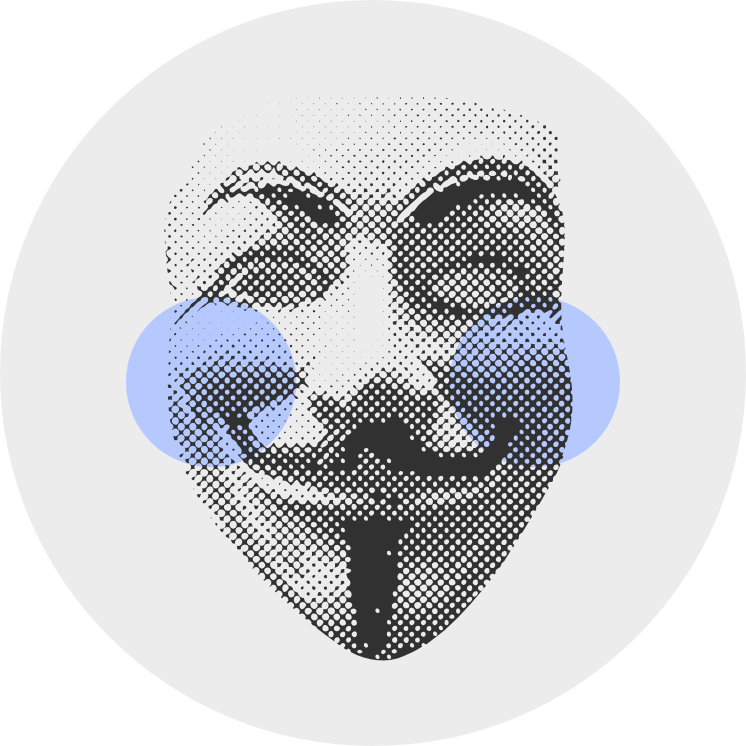
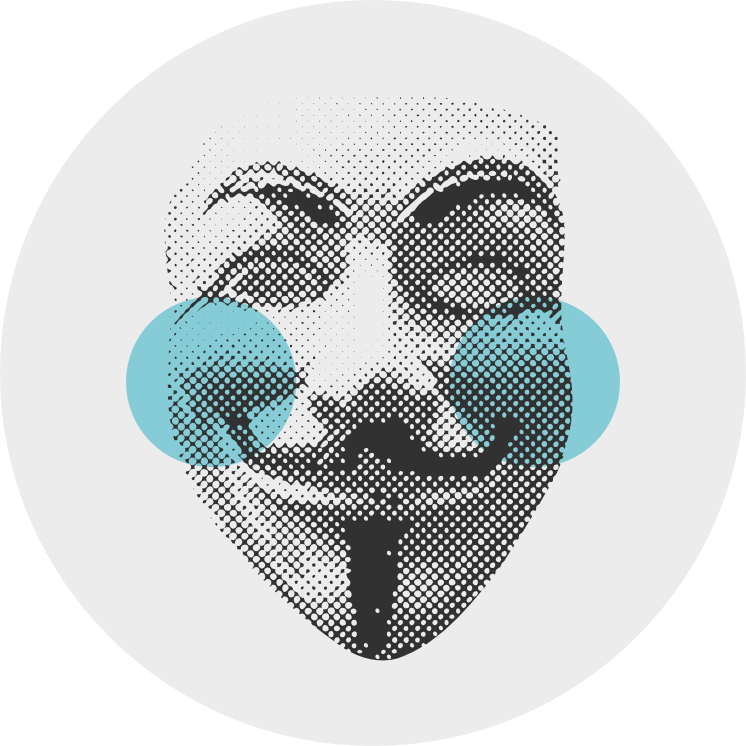
graphics update

Changed region(s): [[0.1542, 0.4008, 0.4008, 0.6475], [0.5858, 0.4008, 0.8324, 0.6475]]

diff --git a/style.min.css b/style.min.css
@@ -11,5 +11,5 @@ Pure v1.0.1
 Copyright 2013 Yahoo!
 Licensed under the BSD License.
 https://github.com/pure-css/pure/blob/master/LICENSE.md
-*/@media screen and (min-width: 35.5em){.pure-u-sm-1,.pure-u-sm-1-1,.pure-u-sm-1-2,.pure-u-sm-1-3,.pure-u-sm-2-3,.pure-u-sm-1-4,.pure-u-sm-3-4,.pure-u-sm-1-5,.pure-u-sm-2-5,.pure-u-sm-3-5,.pure-u-sm-4-5,.pure-u-sm-5-5,.pure-u-sm-1-6,.pure-u-sm-5-6,.pure-u-sm-1-8,.pure-u-sm-3-8,.pure-u-sm-5-8,.pure-u-sm-7-8,.pure-u-sm-1-12,.pure-u-sm-5-12,.pure-u-sm-7-12,.pure-u-sm-11-12,.pure-u-sm-1-24,.pure-u-sm-2-24,.pure-u-sm-3-24,.pure-u-sm-4-24,.pure-u-sm-5-24,.pure-u-sm-6-24,.pure-u-sm-7-24,.pure-u-sm-8-24,.pure-u-sm-9-24,.pure-u-sm-10-24,.pure-u-sm-11-24,.pure-u-sm-12-24,.pure-u-sm-13-24,.pure-u-sm-14-24,.pure-u-sm-15-24,.pure-u-sm-16-24,.pure-u-sm-17-24,.pure-u-sm-18-24,.pure-u-sm-19-24,.pure-u-sm-20-24,.pure-u-sm-21-24,.pure-u-sm-22-24,.pure-u-sm-23-24,.pure-u-sm-24-24{display:inline-block;*display:inline;zoom:1;letter-spacing:normal;word-spacing:normal;vertical-align:top;text-rendering:auto}.pure-u-sm-1-24{width:4.1667%;*width:4.1357%}.pure-u-sm-1-12,.pure-u-sm-2-24{width:8.3333%;*width:8.3023%}.pure-u-sm-1-8,.pure-u-sm-3-24{width:12.5000%;*width:12.4690%}.pure-u-sm-1-6,.pure-u-sm-4-24{width:16.6667%;*width:16.6357%}.pure-u-sm-1-5{width:20%;*width:19.9690%}.pure-u-sm-5-24{width:20.8333%;*width:20.8023%}.pure-u-sm-1-4,.pure-u-sm-6-24{width:25%;*width:24.9690%}.pure-u-sm-7-24{width:29.1667%;*width:29.1357%}.pure-u-sm-1-3,.pure-u-sm-8-24{width:33.3333%;*width:33.3023%}.pure-u-sm-3-8,.pure-u-sm-9-24{width:37.5000%;*width:37.4690%}.pure-u-sm-2-5{width:40%;*width:39.9690%}.pure-u-sm-5-12,.pure-u-sm-10-24{width:41.6667%;*width:41.6357%}.pure-u-sm-11-24{width:45.8333%;*width:45.8023%}.pure-u-sm-1-2,.pure-u-sm-12-24{width:50%;*width:49.9690%}.pure-u-sm-13-24{width:54.1667%;*width:54.1357%}.pure-u-sm-7-12,.pure-u-sm-14-24{width:58.3333%;*width:58.3023%}.pure-u-sm-3-5{width:60%;*width:59.9690%}.pure-u-sm-5-8,.pure-u-sm-15-24{width:62.5000%;*width:62.4690%}.pure-u-sm-2-3,.pure-u-sm-16-24{width:66.6667%;*width:66.6357%}.pure-u-sm-17-24{width:70.8333%;*width:70.8023%}.pure-u-sm-3-4,.pure-u-sm-18-24{width:75%;*width:74.9690%}.pure-u-sm-19-24{width:79.1667%;*width:79.1357%}.pure-u-sm-4-5{width:80%;*width:79.9690%}.pure-u-sm-5-6,.pure-u-sm-20-24{width:83.3333%;*width:83.3023%}.pure-u-sm-7-8,.pure-u-sm-21-24{width:87.5000%;*width:87.4690%}.pure-u-sm-11-12,.pure-u-sm-22-24{width:91.6667%;*width:91.6357%}.pure-u-sm-23-24{width:95.8333%;*width:95.8023%}.pure-u-sm-1,.pure-u-sm-1-1,.pure-u-sm-5-5,.pure-u-sm-24-24{width:100%}}@media screen and (min-width: 48em){.pure-u-md-1,.pure-u-md-1-1,.pure-u-md-1-2,.pure-u-md-1-3,.pure-u-md-2-3,.pure-u-md-1-4,.pure-u-md-3-4,.pure-u-md-1-5,.pure-u-md-2-5,.pure-u-md-3-5,.pure-u-md-4-5,.pure-u-md-5-5,.pure-u-md-1-6,.pure-u-md-5-6,.pure-u-md-1-8,.pure-u-md-3-8,.pure-u-md-5-8,.pure-u-md-7-8,.pure-u-md-1-12,.pure-u-md-5-12,.pure-u-md-7-12,.pure-u-md-11-12,.pure-u-md-1-24,.pure-u-md-2-24,.pure-u-md-3-24,.pure-u-md-4-24,.pure-u-md-5-24,.pure-u-md-6-24,.pure-u-md-7-24,.pure-u-md-8-24,.pure-u-md-9-24,.pure-u-md-10-24,.pure-u-md-11-24,.pure-u-md-12-24,.pure-u-md-13-24,.pure-u-md-14-24,.pure-u-md-15-24,.pure-u-md-16-24,.pure-u-md-17-24,.pure-u-md-18-24,.pure-u-md-19-24,.pure-u-md-20-24,.pure-u-md-21-24,.pure-u-md-22-24,.pure-u-md-23-24,.pure-u-md-24-24{display:inline-block;*display:inline;zoom:1;letter-spacing:normal;word-spacing:normal;vertical-align:top;text-rendering:auto}.pure-u-md-1-24{width:4.1667%;*width:4.1357%}.pure-u-md-1-12,.pure-u-md-2-24{width:8.3333%;*width:8.3023%}.pure-u-md-1-8,.pure-u-md-3-24{width:12.5000%;*width:12.4690%}.pure-u-md-1-6,.pure-u-md-4-24{width:16.6667%;*width:16.6357%}.pure-u-md-1-5{width:20%;*width:19.9690%}.pure-u-md-5-24{width:20.8333%;*width:20.8023%}.pure-u-md-1-4,.pure-u-md-6-24{width:25%;*width:24.9690%}.pure-u-md-7-24{width:29.1667%;*width:29.1357%}.pure-u-md-1-3,.pure-u-md-8-24{width:33.3333%;*width:33.3023%}.pure-u-md-3-8,.pure-u-md-9-24{width:37.5000%;*width:37.4690%}.pure-u-md-2-5{width:40%;*width:39.9690%}.pure-u-md-5-12,.pure-u-md-10-24{width:41.6667%;*width:41.6357%}.pure-u-md-11-24{width:45.8333%;*width:45.8023%}.pure-u-md-1-2,.pure-u-md-12-24{width:50%;*width:49.9690%}.pure-u-md-13-24{width:54.1667%;*width:54.1357%}.pure-u-md-7-12,.pure-u-md-14-24{width:58.3333%;*width:58.3023%}.pure-u-md-3-5{width:60%;*width:59.9690%}.pure-u-md-5-8,.pure-u-md-15-24{width:62.5000%;*width:62.4690%}.pure-u-md-2-3,.pure-u-md-16-24{width:66.6667%;*width:66.6357%}.pure-u-md-17-24{width:70.8333%;*width:70.8023%}.pure-u-md-3-4,.pure-u-md-18-24{width:75%;*width:74.9690%}.pure-u-md-19-24{width:79.1667%;*width:79.1357%}.pure-u-md-4-5{width:80%;*width:79.9690%}.pure-u-md-5-6,.pure-u-md-20-24{width:83.3333%;*width:83.3023%}.pure-u-md-7-8,.pure-u-md-21-24{width:87.5000%;*width:87.4690%}.pure-u-md-11-12,.pure-u-md-22-24{width:91.6667%;*width:91.6357%}.pure-u-md-23-24{width:95.8333%;*width:95.8023%}.pure-u-md-1,.pure-u-md-1-1,.pure-u-md-5-5,.pure-u-md-24-24{width:100%}}@media screen and (min-width: 64em){.pure-u-lg-1,.pure-u-lg-1-1,.pure-u-lg-1-2,.pure-u-lg-1-3,.pure-u-lg-2-3,.pure-u-lg-1-4,.pure-u-lg-3-4,.pure-u-lg-1-5,.pure-u-lg-2-5,.pure-u-lg-3-5,.pure-u-lg-4-5,.pure-u-lg-5-5,.pure-u-lg-1-6,.pure-u-lg-5-6,.pure-u-lg-1-8,.pure-u-lg-3-8,.pure-u-lg-5-8,.pure-u-lg-7-8,.pure-u-lg-1-12,.pure-u-lg-5-12,.pure-u-lg-7-12,.pure-u-lg-11-12,.pure-u-lg-1-24,.pure-u-lg-2-24,.pure-u-lg-3-24,.pure-u-lg-4-24,.pure-u-lg-5-24,.pure-u-lg-6-24,.pure-u-lg-7-24,.pure-u-lg-8-24,.pure-u-lg-9-24,.pure-u-lg-10-24,.pure-u-lg-11-24,.pure-u-lg-12-24,.pure-u-lg-13-24,.pure-u-lg-14-24,.pure-u-lg-15-24,.pure-u-lg-16-24,.pure-u-lg-17-24,.pure-u-lg-18-24,.pure-u-lg-19-24,.pure-u-lg-20-24,.pure-u-lg-21-24,.pure-u-lg-22-24,.pure-u-lg-23-24,.pure-u-lg-24-24{display:inline-block;*display:inline;zoom:1;letter-spacing:normal;word-spacing:normal;vertical-align:top;text-rendering:auto}.pure-u-lg-1-24{width:4.1667%;*width:4.1357%}.pure-u-lg-1-12,.pure-u-lg-2-24{width:8.3333%;*width:8.3023%}.pure-u-lg-1-8,.pure-u-lg-3-24{width:12.5000%;*width:12.4690%}.pure-u-lg-1-6,.pure-u-lg-4-24{width:16.6667%;*width:16.6357%}.pure-u-lg-1-5{width:20%;*width:19.9690%}.pure-u-lg-5-24{width:20.8333%;*width:20.8023%}.pure-u-lg-1-4,.pure-u-lg-6-24{width:25%;*width:24.9690%}.pure-u-lg-7-24{width:29.1667%;*width:29.1357%}.pure-u-lg-1-3,.pure-u-lg-8-24{width:33.3333%;*width:33.3023%}.pure-u-lg-3-8,.pure-u-lg-9-24{width:37.5000%;*width:37.4690%}.pure-u-lg-2-5{width:40%;*width:39.9690%}.pure-u-lg-5-12,.pure-u-lg-10-24{width:41.6667%;*width:41.6357%}.pure-u-lg-11-24{width:45.8333%;*width:45.8023%}.pure-u-lg-1-2,.pure-u-lg-12-24{width:50%;*width:49.9690%}.pure-u-lg-13-24{width:54.1667%;*width:54.1357%}.pure-u-lg-7-12,.pure-u-lg-14-24{width:58.3333%;*width:58.3023%}.pure-u-lg-3-5{width:60%;*width:59.9690%}.pure-u-lg-5-8,.pure-u-lg-15-24{width:62.5000%;*width:62.4690%}.pure-u-lg-2-3,.pure-u-lg-16-24{width:66.6667%;*width:66.6357%}.pure-u-lg-17-24{width:70.8333%;*width:70.8023%}.pure-u-lg-3-4,.pure-u-lg-18-24{width:75%;*width:74.9690%}.pure-u-lg-19-24{width:79.1667%;*width:79.1357%}.pure-u-lg-4-5{width:80%;*width:79.9690%}.pure-u-lg-5-6,.pure-u-lg-20-24{width:83.3333%;*width:83.3023%}.pure-u-lg-7-8,.pure-u-lg-21-24{width:87.5000%;*width:87.4690%}.pure-u-lg-11-12,.pure-u-lg-22-24{width:91.6667%;*width:91.6357%}.pure-u-lg-23-24{width:95.8333%;*width:95.8023%}.pure-u-lg-1,.pure-u-lg-1-1,.pure-u-lg-5-5,.pure-u-lg-24-24{width:100%}}@media screen and (min-width: 80em){.pure-u-xl-1,.pure-u-xl-1-1,.pure-u-xl-1-2,.pure-u-xl-1-3,.pure-u-xl-2-3,.pure-u-xl-1-4,.pure-u-xl-3-4,.pure-u-xl-1-5,.pure-u-xl-2-5,.pure-u-xl-3-5,.pure-u-xl-4-5,.pure-u-xl-5-5,.pure-u-xl-1-6,.pure-u-xl-5-6,.pure-u-xl-1-8,.pure-u-xl-3-8,.pure-u-xl-5-8,.pure-u-xl-7-8,.pure-u-xl-1-12,.pure-u-xl-5-12,.pure-u-xl-7-12,.pure-u-xl-11-12,.pure-u-xl-1-24,.pure-u-xl-2-24,.pure-u-xl-3-24,.pure-u-xl-4-24,.pure-u-xl-5-24,.pure-u-xl-6-24,.pure-u-xl-7-24,.pure-u-xl-8-24,.pure-u-xl-9-24,.pure-u-xl-10-24,.pure-u-xl-11-24,.pure-u-xl-12-24,.pure-u-xl-13-24,.pure-u-xl-14-24,.pure-u-xl-15-24,.pure-u-xl-16-24,.pure-u-xl-17-24,.pure-u-xl-18-24,.pure-u-xl-19-24,.pure-u-xl-20-24,.pure-u-xl-21-24,.pure-u-xl-22-24,.pure-u-xl-23-24,.pure-u-xl-24-24{display:inline-block;*display:inline;zoom:1;letter-spacing:normal;word-spacing:normal;vertical-align:top;text-rendering:auto}.pure-u-xl-1-24{width:4.1667%;*width:4.1357%}.pure-u-xl-1-12,.pure-u-xl-2-24{width:8.3333%;*width:8.3023%}.pure-u-xl-1-8,.pure-u-xl-3-24{width:12.5000%;*width:12.4690%}.pure-u-xl-1-6,.pure-u-xl-4-24{width:16.6667%;*width:16.6357%}.pure-u-xl-1-5{width:20%;*width:19.9690%}.pure-u-xl-5-24{width:20.8333%;*width:20.8023%}.pure-u-xl-1-4,.pure-u-xl-6-24{width:25%;*width:24.9690%}.pure-u-xl-7-24{width:29.1667%;*width:29.1357%}.pure-u-xl-1-3,.pure-u-xl-8-24{width:33.3333%;*width:33.3023%}.pure-u-xl-3-8,.pure-u-xl-9-24{width:37.5000%;*width:37.4690%}.pure-u-xl-2-5{width:40%;*width:39.9690%}.pure-u-xl-5-12,.pure-u-xl-10-24{width:41.6667%;*width:41.6357%}.pure-u-xl-11-24{width:45.8333%;*width:45.8023%}.pure-u-xl-1-2,.pure-u-xl-12-24{width:50%;*width:49.9690%}.pure-u-xl-13-24{width:54.1667%;*width:54.1357%}.pure-u-xl-7-12,.pure-u-xl-14-24{width:58.3333%;*width:58.3023%}.pure-u-xl-3-5{width:60%;*width:59.9690%}.pure-u-xl-5-8,.pure-u-xl-15-24{width:62.5000%;*width:62.4690%}.pure-u-xl-2-3,.pure-u-xl-16-24{width:66.6667%;*width:66.6357%}.pure-u-xl-17-24{width:70.8333%;*width:70.8023%}.pure-u-xl-3-4,.pure-u-xl-18-24{width:75%;*width:74.9690%}.pure-u-xl-19-24{width:79.1667%;*width:79.1357%}.pure-u-xl-4-5{width:80%;*width:79.9690%}.pure-u-xl-5-6,.pure-u-xl-20-24{width:83.3333%;*width:83.3023%}.pure-u-xl-7-8,.pure-u-xl-21-24{width:87.5000%;*width:87.4690%}.pure-u-xl-11-12,.pure-u-xl-22-24{width:91.6667%;*width:91.6357%}.pure-u-xl-23-24{width:95.8333%;*width:95.8023%}.pure-u-xl-1,.pure-u-xl-1-1,.pure-u-xl-5-5,.pure-u-xl-24-24{width:100%}}html,pure-g,.pure-g [class*="pure-u"]{font-family:'Sen', sans-serif}h1{font-size:2em;margin:0.3em 0}h2{font-size:36px;font-weight:800;margin:0 0 0.2em 0;letter-spacing:-1px;text-transform:capitalize;line-height:1.3}h3{font-size:24px;font-weight:800;margin:0.5em 0 0.2em 0;letter-spacing:-1px;text-transform:capitalize;line-height:1.3}.user-data-table p{font-size:24px;color:#828282}.banner p{line-height:1.3}p{line-height:1.6}b{font-weight:800}.right{text-align:right}.center{text-align:center}table{border-collapse:collapse;width:100%;margin:2em 0;border-bottom:#d0d0d0 1px solid;background:#fff}td,th{border-top:1px solid #d0d0d0;text-align:left;padding:8px;font-size:18px}.shine-me{-webkit-animation-name:ShineAnimation;-webkit-animation-duration:5s;-webkit-animation-iteration-count:infinite;-webkit-animation-timing-function:cubic-bezier(0.12, 0.89, 0.98, 0.47);transition:transform .1s}.shine-me:hover{transform:scale(1.05)}@-webkit-keyframes ShineAnimation{from{background-repeat:no-repeat;background-image:-webkit-linear-gradient(top left, rgba(255,255,255,0) 0%, rgba(255,255,255,0) 45%, rgba(255,255,255,0.5) 48%, rgba(255,255,255,0.8) 50%, rgba(255,255,255,0.5) 52%, rgba(255,255,255,0) 57%, rgba(255,255,255,0) 100%);background-position:-250px -250px;background-size:600px 600px}to{background-repeat:no-repeat;background-position:250px 250px}}@-webkit-keyframes ShineAnimation2{from{background-repeat:no-repeat;background-image:-webkit-linear-gradient(top left, #fff 0%, #fff 100%)}to{background-repeat:no-repeat;background-position:0px 98px}}body{margin-top:72px;background:#ffffff;background-image:url("img/pattern.png")}.container{max-width:1104px;margin:0 auto;padding:0 48px}.section{padding:7% 0;border-bottom:#ccc 1px solid;background:#fff}.img-left,.img-right,.img-right-table{max-width:90%;height:auto;display:block}.logo{width:320px}.img-left{padding:0 10% 0 0}.img-right{padding:0 0 0 10%}.banner{min-height:420px;text-align:center;text-shadow:0 1px 1px #000;background:url("img/hero.jpg");background-size:cover;background-position:center center;padding:4% 0;color:#fff;font-size:20px}.banner-highlight{color:#fffc36;font-size:32px;margin:0.5em 0 0.2em 0}.logo-strip{margin:12px 0;max-height:80px;color:#fff}.logo-strip img{max-height:80px;margin:0 auto}.top-bar{top:0;height:40px;background:#1d1d1d;padding:16px 0;border-bottom:1px solid #2f2f2f;position:fixed;width:100%;z-index:100}.top-bar img{width:164px;margin-top:-2px}.user-data-table{border-bottom:1px solid #ccc;padding:7% 0}.user-data-table ul li{line-height:1.3;font-size:18px;text-align:right}.benefits-container{max-width:1200px;margin:0 auto}.benefits p,.benefits h3{padding:0 48px}.benefits img{margin:5em 48px 0.5em}.offer{font-size:24px;max-width:800px;margin:0 auto}.offer p{line-height:1.2}.offer span{font-size:18px}.offer-box-header{margin-top:64px;background:#f0f0f0;font-size:36px;border:#ccc 1px solid;padding:18px;border-radius:8px 8px 0 0}ul.offer-box{border-left:#ccc 1px solid;border-right:#ccc 1px solid;border-bottom:#ccc 1px solid;border-radius:0 0 8px 8px;background:#fff}ul.offer-box li{padding:16px 0;border-top:#ccc 1px solid;font-size:20px}ul.offer-box li.leading{font-size:28px;padding:24px 16px;border:none;line-height:1.3}.pure-button{transition:all .1s}.section .pure-button,.user-data-table .pure-button{border-radius:53px;background:#fbbc05;font-size:20px;color:#000;font-weight:800;box-shadow:0 3px 1px #bd8e06}.pure-button:hover,.banner .pure-button:hover{background:#fbf705}.banner .pure-button,.button-xlarge{border-radius:53px;background:#fbbc05;font-size:22px;text-shadow:none;box-shadow:0 4px 4px #000}.button-xlarge{margin:16px 0}.top-bar .pure-button{border-radius:34px;background:none;border:2px solid #fffc36}.top-bar .pure-button:hover{border:2px solid #fbf705;background:#fbf705;color:#000}.top-bar a.pure-button{color:#fffc36;font-weight:800}.offer .button-xlarge{font-size:24px;box-shadow:0 3px 0 #bd8e06}.banner a.pure-button,.button-xlarge{color:#000;font-weight:800}footer{margin-top:64px;background:#2d2d2d;background:-webkit-linear-gradient(bottom, #2d2d2d 0%, #1d1d1d 100%);background:-o-linear-gradient(bottom, #2d2d2d 0%, #1d1d1d 100%);background:linear-gradient(to top, #2d2d2d 0%, #1d1d1d 100%);height:40px;padding:16px 0;text-align:center;color:#fff}footer .logo{margin-top:6px;width:200px}.hide-xl{display:none}.hide-sm{display:inline}@media screen and (max-width: 60em){.banner{height:100%;padding:36px 0;font-size:18px}}@media screen and (max-width: 35.5em){.logo{width:256px}.hide-xl{display:inline}.hide-sm{display:none}.top-bar img{width:72px;margin-top:2px}.container{padding:0 24px}.banner .pure-button,.button-xlarge{font-size:16px}.benefits img{margin:48px 0 0 24px}.benefits p,.benefits h3{padding:0 24px}.img-left,.img-right,.img-right-table{max-width:100%;padding:36px 0 0 0}h2{margin:0.5em 0 0.2em 0}}
+*/@media screen and (min-width: 35.5em){.pure-u-sm-1,.pure-u-sm-1-1,.pure-u-sm-1-2,.pure-u-sm-1-3,.pure-u-sm-2-3,.pure-u-sm-1-4,.pure-u-sm-3-4,.pure-u-sm-1-5,.pure-u-sm-2-5,.pure-u-sm-3-5,.pure-u-sm-4-5,.pure-u-sm-5-5,.pure-u-sm-1-6,.pure-u-sm-5-6,.pure-u-sm-1-8,.pure-u-sm-3-8,.pure-u-sm-5-8,.pure-u-sm-7-8,.pure-u-sm-1-12,.pure-u-sm-5-12,.pure-u-sm-7-12,.pure-u-sm-11-12,.pure-u-sm-1-24,.pure-u-sm-2-24,.pure-u-sm-3-24,.pure-u-sm-4-24,.pure-u-sm-5-24,.pure-u-sm-6-24,.pure-u-sm-7-24,.pure-u-sm-8-24,.pure-u-sm-9-24,.pure-u-sm-10-24,.pure-u-sm-11-24,.pure-u-sm-12-24,.pure-u-sm-13-24,.pure-u-sm-14-24,.pure-u-sm-15-24,.pure-u-sm-16-24,.pure-u-sm-17-24,.pure-u-sm-18-24,.pure-u-sm-19-24,.pure-u-sm-20-24,.pure-u-sm-21-24,.pure-u-sm-22-24,.pure-u-sm-23-24,.pure-u-sm-24-24{display:inline-block;*display:inline;zoom:1;letter-spacing:normal;word-spacing:normal;vertical-align:top;text-rendering:auto}.pure-u-sm-1-24{width:4.1667%;*width:4.1357%}.pure-u-sm-1-12,.pure-u-sm-2-24{width:8.3333%;*width:8.3023%}.pure-u-sm-1-8,.pure-u-sm-3-24{width:12.5000%;*width:12.4690%}.pure-u-sm-1-6,.pure-u-sm-4-24{width:16.6667%;*width:16.6357%}.pure-u-sm-1-5{width:20%;*width:19.9690%}.pure-u-sm-5-24{width:20.8333%;*width:20.8023%}.pure-u-sm-1-4,.pure-u-sm-6-24{width:25%;*width:24.9690%}.pure-u-sm-7-24{width:29.1667%;*width:29.1357%}.pure-u-sm-1-3,.pure-u-sm-8-24{width:33.3333%;*width:33.3023%}.pure-u-sm-3-8,.pure-u-sm-9-24{width:37.5000%;*width:37.4690%}.pure-u-sm-2-5{width:40%;*width:39.9690%}.pure-u-sm-5-12,.pure-u-sm-10-24{width:41.6667%;*width:41.6357%}.pure-u-sm-11-24{width:45.8333%;*width:45.8023%}.pure-u-sm-1-2,.pure-u-sm-12-24{width:50%;*width:49.9690%}.pure-u-sm-13-24{width:54.1667%;*width:54.1357%}.pure-u-sm-7-12,.pure-u-sm-14-24{width:58.3333%;*width:58.3023%}.pure-u-sm-3-5{width:60%;*width:59.9690%}.pure-u-sm-5-8,.pure-u-sm-15-24{width:62.5000%;*width:62.4690%}.pure-u-sm-2-3,.pure-u-sm-16-24{width:66.6667%;*width:66.6357%}.pure-u-sm-17-24{width:70.8333%;*width:70.8023%}.pure-u-sm-3-4,.pure-u-sm-18-24{width:75%;*width:74.9690%}.pure-u-sm-19-24{width:79.1667%;*width:79.1357%}.pure-u-sm-4-5{width:80%;*width:79.9690%}.pure-u-sm-5-6,.pure-u-sm-20-24{width:83.3333%;*width:83.3023%}.pure-u-sm-7-8,.pure-u-sm-21-24{width:87.5000%;*width:87.4690%}.pure-u-sm-11-12,.pure-u-sm-22-24{width:91.6667%;*width:91.6357%}.pure-u-sm-23-24{width:95.8333%;*width:95.8023%}.pure-u-sm-1,.pure-u-sm-1-1,.pure-u-sm-5-5,.pure-u-sm-24-24{width:100%}}@media screen and (min-width: 48em){.pure-u-md-1,.pure-u-md-1-1,.pure-u-md-1-2,.pure-u-md-1-3,.pure-u-md-2-3,.pure-u-md-1-4,.pure-u-md-3-4,.pure-u-md-1-5,.pure-u-md-2-5,.pure-u-md-3-5,.pure-u-md-4-5,.pure-u-md-5-5,.pure-u-md-1-6,.pure-u-md-5-6,.pure-u-md-1-8,.pure-u-md-3-8,.pure-u-md-5-8,.pure-u-md-7-8,.pure-u-md-1-12,.pure-u-md-5-12,.pure-u-md-7-12,.pure-u-md-11-12,.pure-u-md-1-24,.pure-u-md-2-24,.pure-u-md-3-24,.pure-u-md-4-24,.pure-u-md-5-24,.pure-u-md-6-24,.pure-u-md-7-24,.pure-u-md-8-24,.pure-u-md-9-24,.pure-u-md-10-24,.pure-u-md-11-24,.pure-u-md-12-24,.pure-u-md-13-24,.pure-u-md-14-24,.pure-u-md-15-24,.pure-u-md-16-24,.pure-u-md-17-24,.pure-u-md-18-24,.pure-u-md-19-24,.pure-u-md-20-24,.pure-u-md-21-24,.pure-u-md-22-24,.pure-u-md-23-24,.pure-u-md-24-24{display:inline-block;*display:inline;zoom:1;letter-spacing:normal;word-spacing:normal;vertical-align:top;text-rendering:auto}.pure-u-md-1-24{width:4.1667%;*width:4.1357%}.pure-u-md-1-12,.pure-u-md-2-24{width:8.3333%;*width:8.3023%}.pure-u-md-1-8,.pure-u-md-3-24{width:12.5000%;*width:12.4690%}.pure-u-md-1-6,.pure-u-md-4-24{width:16.6667%;*width:16.6357%}.pure-u-md-1-5{width:20%;*width:19.9690%}.pure-u-md-5-24{width:20.8333%;*width:20.8023%}.pure-u-md-1-4,.pure-u-md-6-24{width:25%;*width:24.9690%}.pure-u-md-7-24{width:29.1667%;*width:29.1357%}.pure-u-md-1-3,.pure-u-md-8-24{width:33.3333%;*width:33.3023%}.pure-u-md-3-8,.pure-u-md-9-24{width:37.5000%;*width:37.4690%}.pure-u-md-2-5{width:40%;*width:39.9690%}.pure-u-md-5-12,.pure-u-md-10-24{width:41.6667%;*width:41.6357%}.pure-u-md-11-24{width:45.8333%;*width:45.8023%}.pure-u-md-1-2,.pure-u-md-12-24{width:50%;*width:49.9690%}.pure-u-md-13-24{width:54.1667%;*width:54.1357%}.pure-u-md-7-12,.pure-u-md-14-24{width:58.3333%;*width:58.3023%}.pure-u-md-3-5{width:60%;*width:59.9690%}.pure-u-md-5-8,.pure-u-md-15-24{width:62.5000%;*width:62.4690%}.pure-u-md-2-3,.pure-u-md-16-24{width:66.6667%;*width:66.6357%}.pure-u-md-17-24{width:70.8333%;*width:70.8023%}.pure-u-md-3-4,.pure-u-md-18-24{width:75%;*width:74.9690%}.pure-u-md-19-24{width:79.1667%;*width:79.1357%}.pure-u-md-4-5{width:80%;*width:79.9690%}.pure-u-md-5-6,.pure-u-md-20-24{width:83.3333%;*width:83.3023%}.pure-u-md-7-8,.pure-u-md-21-24{width:87.5000%;*width:87.4690%}.pure-u-md-11-12,.pure-u-md-22-24{width:91.6667%;*width:91.6357%}.pure-u-md-23-24{width:95.8333%;*width:95.8023%}.pure-u-md-1,.pure-u-md-1-1,.pure-u-md-5-5,.pure-u-md-24-24{width:100%}}@media screen and (min-width: 64em){.pure-u-lg-1,.pure-u-lg-1-1,.pure-u-lg-1-2,.pure-u-lg-1-3,.pure-u-lg-2-3,.pure-u-lg-1-4,.pure-u-lg-3-4,.pure-u-lg-1-5,.pure-u-lg-2-5,.pure-u-lg-3-5,.pure-u-lg-4-5,.pure-u-lg-5-5,.pure-u-lg-1-6,.pure-u-lg-5-6,.pure-u-lg-1-8,.pure-u-lg-3-8,.pure-u-lg-5-8,.pure-u-lg-7-8,.pure-u-lg-1-12,.pure-u-lg-5-12,.pure-u-lg-7-12,.pure-u-lg-11-12,.pure-u-lg-1-24,.pure-u-lg-2-24,.pure-u-lg-3-24,.pure-u-lg-4-24,.pure-u-lg-5-24,.pure-u-lg-6-24,.pure-u-lg-7-24,.pure-u-lg-8-24,.pure-u-lg-9-24,.pure-u-lg-10-24,.pure-u-lg-11-24,.pure-u-lg-12-24,.pure-u-lg-13-24,.pure-u-lg-14-24,.pure-u-lg-15-24,.pure-u-lg-16-24,.pure-u-lg-17-24,.pure-u-lg-18-24,.pure-u-lg-19-24,.pure-u-lg-20-24,.pure-u-lg-21-24,.pure-u-lg-22-24,.pure-u-lg-23-24,.pure-u-lg-24-24{display:inline-block;*display:inline;zoom:1;letter-spacing:normal;word-spacing:normal;vertical-align:top;text-rendering:auto}.pure-u-lg-1-24{width:4.1667%;*width:4.1357%}.pure-u-lg-1-12,.pure-u-lg-2-24{width:8.3333%;*width:8.3023%}.pure-u-lg-1-8,.pure-u-lg-3-24{width:12.5000%;*width:12.4690%}.pure-u-lg-1-6,.pure-u-lg-4-24{width:16.6667%;*width:16.6357%}.pure-u-lg-1-5{width:20%;*width:19.9690%}.pure-u-lg-5-24{width:20.8333%;*width:20.8023%}.pure-u-lg-1-4,.pure-u-lg-6-24{width:25%;*width:24.9690%}.pure-u-lg-7-24{width:29.1667%;*width:29.1357%}.pure-u-lg-1-3,.pure-u-lg-8-24{width:33.3333%;*width:33.3023%}.pure-u-lg-3-8,.pure-u-lg-9-24{width:37.5000%;*width:37.4690%}.pure-u-lg-2-5{width:40%;*width:39.9690%}.pure-u-lg-5-12,.pure-u-lg-10-24{width:41.6667%;*width:41.6357%}.pure-u-lg-11-24{width:45.8333%;*width:45.8023%}.pure-u-lg-1-2,.pure-u-lg-12-24{width:50%;*width:49.9690%}.pure-u-lg-13-24{width:54.1667%;*width:54.1357%}.pure-u-lg-7-12,.pure-u-lg-14-24{width:58.3333%;*width:58.3023%}.pure-u-lg-3-5{width:60%;*width:59.9690%}.pure-u-lg-5-8,.pure-u-lg-15-24{width:62.5000%;*width:62.4690%}.pure-u-lg-2-3,.pure-u-lg-16-24{width:66.6667%;*width:66.6357%}.pure-u-lg-17-24{width:70.8333%;*width:70.8023%}.pure-u-lg-3-4,.pure-u-lg-18-24{width:75%;*width:74.9690%}.pure-u-lg-19-24{width:79.1667%;*width:79.1357%}.pure-u-lg-4-5{width:80%;*width:79.9690%}.pure-u-lg-5-6,.pure-u-lg-20-24{width:83.3333%;*width:83.3023%}.pure-u-lg-7-8,.pure-u-lg-21-24{width:87.5000%;*width:87.4690%}.pure-u-lg-11-12,.pure-u-lg-22-24{width:91.6667%;*width:91.6357%}.pure-u-lg-23-24{width:95.8333%;*width:95.8023%}.pure-u-lg-1,.pure-u-lg-1-1,.pure-u-lg-5-5,.pure-u-lg-24-24{width:100%}}@media screen and (min-width: 80em){.pure-u-xl-1,.pure-u-xl-1-1,.pure-u-xl-1-2,.pure-u-xl-1-3,.pure-u-xl-2-3,.pure-u-xl-1-4,.pure-u-xl-3-4,.pure-u-xl-1-5,.pure-u-xl-2-5,.pure-u-xl-3-5,.pure-u-xl-4-5,.pure-u-xl-5-5,.pure-u-xl-1-6,.pure-u-xl-5-6,.pure-u-xl-1-8,.pure-u-xl-3-8,.pure-u-xl-5-8,.pure-u-xl-7-8,.pure-u-xl-1-12,.pure-u-xl-5-12,.pure-u-xl-7-12,.pure-u-xl-11-12,.pure-u-xl-1-24,.pure-u-xl-2-24,.pure-u-xl-3-24,.pure-u-xl-4-24,.pure-u-xl-5-24,.pure-u-xl-6-24,.pure-u-xl-7-24,.pure-u-xl-8-24,.pure-u-xl-9-24,.pure-u-xl-10-24,.pure-u-xl-11-24,.pure-u-xl-12-24,.pure-u-xl-13-24,.pure-u-xl-14-24,.pure-u-xl-15-24,.pure-u-xl-16-24,.pure-u-xl-17-24,.pure-u-xl-18-24,.pure-u-xl-19-24,.pure-u-xl-20-24,.pure-u-xl-21-24,.pure-u-xl-22-24,.pure-u-xl-23-24,.pure-u-xl-24-24{display:inline-block;*display:inline;zoom:1;letter-spacing:normal;word-spacing:normal;vertical-align:top;text-rendering:auto}.pure-u-xl-1-24{width:4.1667%;*width:4.1357%}.pure-u-xl-1-12,.pure-u-xl-2-24{width:8.3333%;*width:8.3023%}.pure-u-xl-1-8,.pure-u-xl-3-24{width:12.5000%;*width:12.4690%}.pure-u-xl-1-6,.pure-u-xl-4-24{width:16.6667%;*width:16.6357%}.pure-u-xl-1-5{width:20%;*width:19.9690%}.pure-u-xl-5-24{width:20.8333%;*width:20.8023%}.pure-u-xl-1-4,.pure-u-xl-6-24{width:25%;*width:24.9690%}.pure-u-xl-7-24{width:29.1667%;*width:29.1357%}.pure-u-xl-1-3,.pure-u-xl-8-24{width:33.3333%;*width:33.3023%}.pure-u-xl-3-8,.pure-u-xl-9-24{width:37.5000%;*width:37.4690%}.pure-u-xl-2-5{width:40%;*width:39.9690%}.pure-u-xl-5-12,.pure-u-xl-10-24{width:41.6667%;*width:41.6357%}.pure-u-xl-11-24{width:45.8333%;*width:45.8023%}.pure-u-xl-1-2,.pure-u-xl-12-24{width:50%;*width:49.9690%}.pure-u-xl-13-24{width:54.1667%;*width:54.1357%}.pure-u-xl-7-12,.pure-u-xl-14-24{width:58.3333%;*width:58.3023%}.pure-u-xl-3-5{width:60%;*width:59.9690%}.pure-u-xl-5-8,.pure-u-xl-15-24{width:62.5000%;*width:62.4690%}.pure-u-xl-2-3,.pure-u-xl-16-24{width:66.6667%;*width:66.6357%}.pure-u-xl-17-24{width:70.8333%;*width:70.8023%}.pure-u-xl-3-4,.pure-u-xl-18-24{width:75%;*width:74.9690%}.pure-u-xl-19-24{width:79.1667%;*width:79.1357%}.pure-u-xl-4-5{width:80%;*width:79.9690%}.pure-u-xl-5-6,.pure-u-xl-20-24{width:83.3333%;*width:83.3023%}.pure-u-xl-7-8,.pure-u-xl-21-24{width:87.5000%;*width:87.4690%}.pure-u-xl-11-12,.pure-u-xl-22-24{width:91.6667%;*width:91.6357%}.pure-u-xl-23-24{width:95.8333%;*width:95.8023%}.pure-u-xl-1,.pure-u-xl-1-1,.pure-u-xl-5-5,.pure-u-xl-24-24{width:100%}}html,pure-g,.pure-g [class*="pure-u"]{font-family:'Sen', sans-serif}h1{font-size:2em;margin:0.3em 0}h2{font-size:36px;font-weight:800;margin:0 0 0.2em 0;letter-spacing:-1px;text-transform:capitalize;line-height:1.3}h3{font-size:24px;font-weight:800;margin:0.5em 0 0.2em 0;letter-spacing:-1px;text-transform:capitalize;line-height:1.3}.user-data-table p{font-size:24px;color:#828282}.banner p{line-height:1.3}p{line-height:1.6}b{font-weight:800}.right{text-align:right}.center{text-align:center}table{border-collapse:collapse;width:100%;margin:2em 0;border-bottom:#d0d0d0 1px solid;background:#fff}td,th{border-top:1px solid #d0d0d0;text-align:left;padding:8px;font-size:18px}.shine-me{-webkit-animation-name:ShineAnimation;-webkit-animation-duration:5s;-webkit-animation-iteration-count:infinite;-webkit-animation-timing-function:cubic-bezier(0.12, 0.89, 0.98, 0.47);transition:transform .1s}.shine-me:hover{transform:scale(1.05)}@-webkit-keyframes ShineAnimation{from{background-repeat:no-repeat;background-image:-webkit-linear-gradient(top left, rgba(255,255,255,0) 0%, rgba(255,255,255,0) 45%, rgba(255,255,255,0.5) 48%, rgba(255,255,255,0.8) 50%, rgba(255,255,255,0.5) 52%, rgba(255,255,255,0) 57%, rgba(255,255,255,0) 100%);background-position:-250px -250px;background-size:600px 600px}to{background-repeat:no-repeat;background-position:250px 250px}}@-webkit-keyframes ShineAnimation2{from{background-repeat:no-repeat;background-image:-webkit-linear-gradient(top left, #fff 0%, #fff 100%)}to{background-repeat:no-repeat;background-position:0px 98px}}body{margin-top:72px;background:#ffffff;background-image:url("img/pattern.png")}.container{max-width:1104px;margin:0 auto;padding:0 48px}.section{padding:7% 0;border-bottom:#ccc 1px solid;background:#fff}.img-left,.img-right,.img-right-table{max-width:90%;height:auto;display:block}.logo{width:128px}.img-left{padding:0 10% 0 0}.img-right{padding:0 0 0 10%}.banner{min-height:420px;text-align:center;text-shadow:0 1px 1px #000;background:url("img/hero.jpg");background-size:cover;background-position:center center;padding:4% 0;color:#fff;font-size:20px}.banner-highlight{color:#86dcff;font-size:32px;margin:0.5em 0 0.2em 0}.logo-strip{margin:12px 0;max-height:80px;color:#fff}.logo-strip img{max-height:80px;margin:0 auto}.top-bar{top:0;height:40px;background:#1d1d1d;padding:16px 0;border-bottom:1px solid #2f2f2f;position:fixed;width:100%;z-index:100}.top-bar img{width:164px;margin-top:-2px}.user-data-table{border-bottom:1px solid #ccc;padding:7% 0}.user-data-table ul li{line-height:1.3;font-size:18px;text-align:right}.benefits-container{max-width:1200px;margin:0 auto}.benefits p,.benefits h3{padding:0 48px}.benefits img{margin:5em 48px 0.5em}.offer{font-size:24px;max-width:800px;margin:0 auto}.offer p{line-height:1.2}.offer span{font-size:18px}.offer-box-header{margin-top:64px;background:#f0f0f0;font-size:36px;border:#ccc 1px solid;padding:18px;border-radius:8px 8px 0 0}ul.offer-box{border-left:#ccc 1px solid;border-right:#ccc 1px solid;border-bottom:#ccc 1px solid;border-radius:0 0 8px 8px;background:#fff}ul.offer-box li{padding:16px 0;border-top:#ccc 1px solid;font-size:20px}ul.offer-box li.leading{font-size:28px;padding:24px 16px;border:none;line-height:1.3}.pure-button{transition:all .1s}.section .pure-button,.user-data-table .pure-button{border-radius:53px;background:#00a3e6;font-size:20px;color:#fff;font-weight:800;box-shadow:0 3px 1px #00719f;border:1px solid #00a3e6}.pure-button:hover,.banner .pure-button:hover{background:#1fbeff}.banner .pure-button,.button-xlarge{border-radius:53px;background:#00a3e6;font-size:22px;text-shadow:none;box-shadow:0 4px 4px #000}.button-xlarge{margin:16px 0}.top-bar .pure-button{border-radius:34px;background:none;border:2px solid #86dcff}.top-bar .pure-button:hover{border:2px solid #1fbeff;background:#1fbeff;color:#000}.top-bar a.pure-button{color:#86dcff;font-weight:800}.offer .button-xlarge{font-size:24px;box-shadow:0 3px 0 #00719f}.banner a.pure-button,.button-xlarge{color:#fff;font-weight:800}footer{margin-top:64px;background:#2d2d2d;background:-webkit-linear-gradient(bottom, #2d2d2d 0%, #1d1d1d 100%);background:-o-linear-gradient(bottom, #2d2d2d 0%, #1d1d1d 100%);background:linear-gradient(to top, #2d2d2d 0%, #1d1d1d 100%);height:40px;padding:16px 0;text-align:center;color:#fff}footer .logo{width:100px}.hide-xl{display:none}.hide-sm{display:inline}@media screen and (max-width: 60em){.banner{height:100%;padding:36px 0;font-size:18px}}@media screen and (max-width: 35.5em){.logo{width:256px}.hide-xl{display:inline}.hide-sm{display:none}.top-bar img{width:72px;margin-top:2px}.container{padding:0 24px}.banner .pure-button,.button-xlarge{font-size:16px}.benefits img{margin:48px 0 0 24px}.benefits p,.benefits h3{padding:0 24px}.img-left,.img-right,.img-right-table{max-width:100%;padding:36px 0 0 0}h2{margin:0.5em 0 0.2em 0}}
 /*# sourceMappingURL=style.min.css.map */

diff --git a/scss/_main.scss b/scss/_main.scss
@@ -1,9 +1,10 @@
 
 // global color variables
 
-$main-color:   #fffc36; // #6AC045;
-$button:       #fbbc05;
-$buttn-hover:  #fbf705;
+$main-color:     #86dcff; // #6AC045;
+$button:         #00a3e6;
+$buttn-hover:    #1fbeff;
+$button-shadow:  #00719f;
 
 
 body {
@@ -31,7 +32,7 @@ body {
 }
 
 .logo {
-  width: 320px;
+  width: 128px;
 }
 
 .img-left {
@@ -174,9 +175,10 @@ ul.offer-box li.leading {
   border-radius: 53px;
   background: $button;
   font-size: 20px;
-  color: #000;
+  color: #fff;
   font-weight: 800;
-  box-shadow: 0 3px 1px #bd8e06;
+  box-shadow: 0 3px 1px $button-shadow;
+  border: 1px solid $button;
 }
 
 .pure-button:hover, .banner .pure-button:hover {
@@ -214,11 +216,11 @@ ul.offer-box li.leading {
 
 .offer .button-xlarge {
   font-size: 24px;
-  box-shadow: 0 3px 0 #bd8e06;
+  box-shadow: 0 3px 0 $button-shadow;
 }
 
 .banner a.pure-button, .button-xlarge {
-  color: #000;
+  color: #fff;
   font-weight: 800;
 }
 
@@ -235,7 +237,5 @@ footer {
 }
 
 footer .logo {
-  margin-top: 6px;
-  width: 200px;
-  //padding-bottom: 12px;
+  width: 100px;
 }
